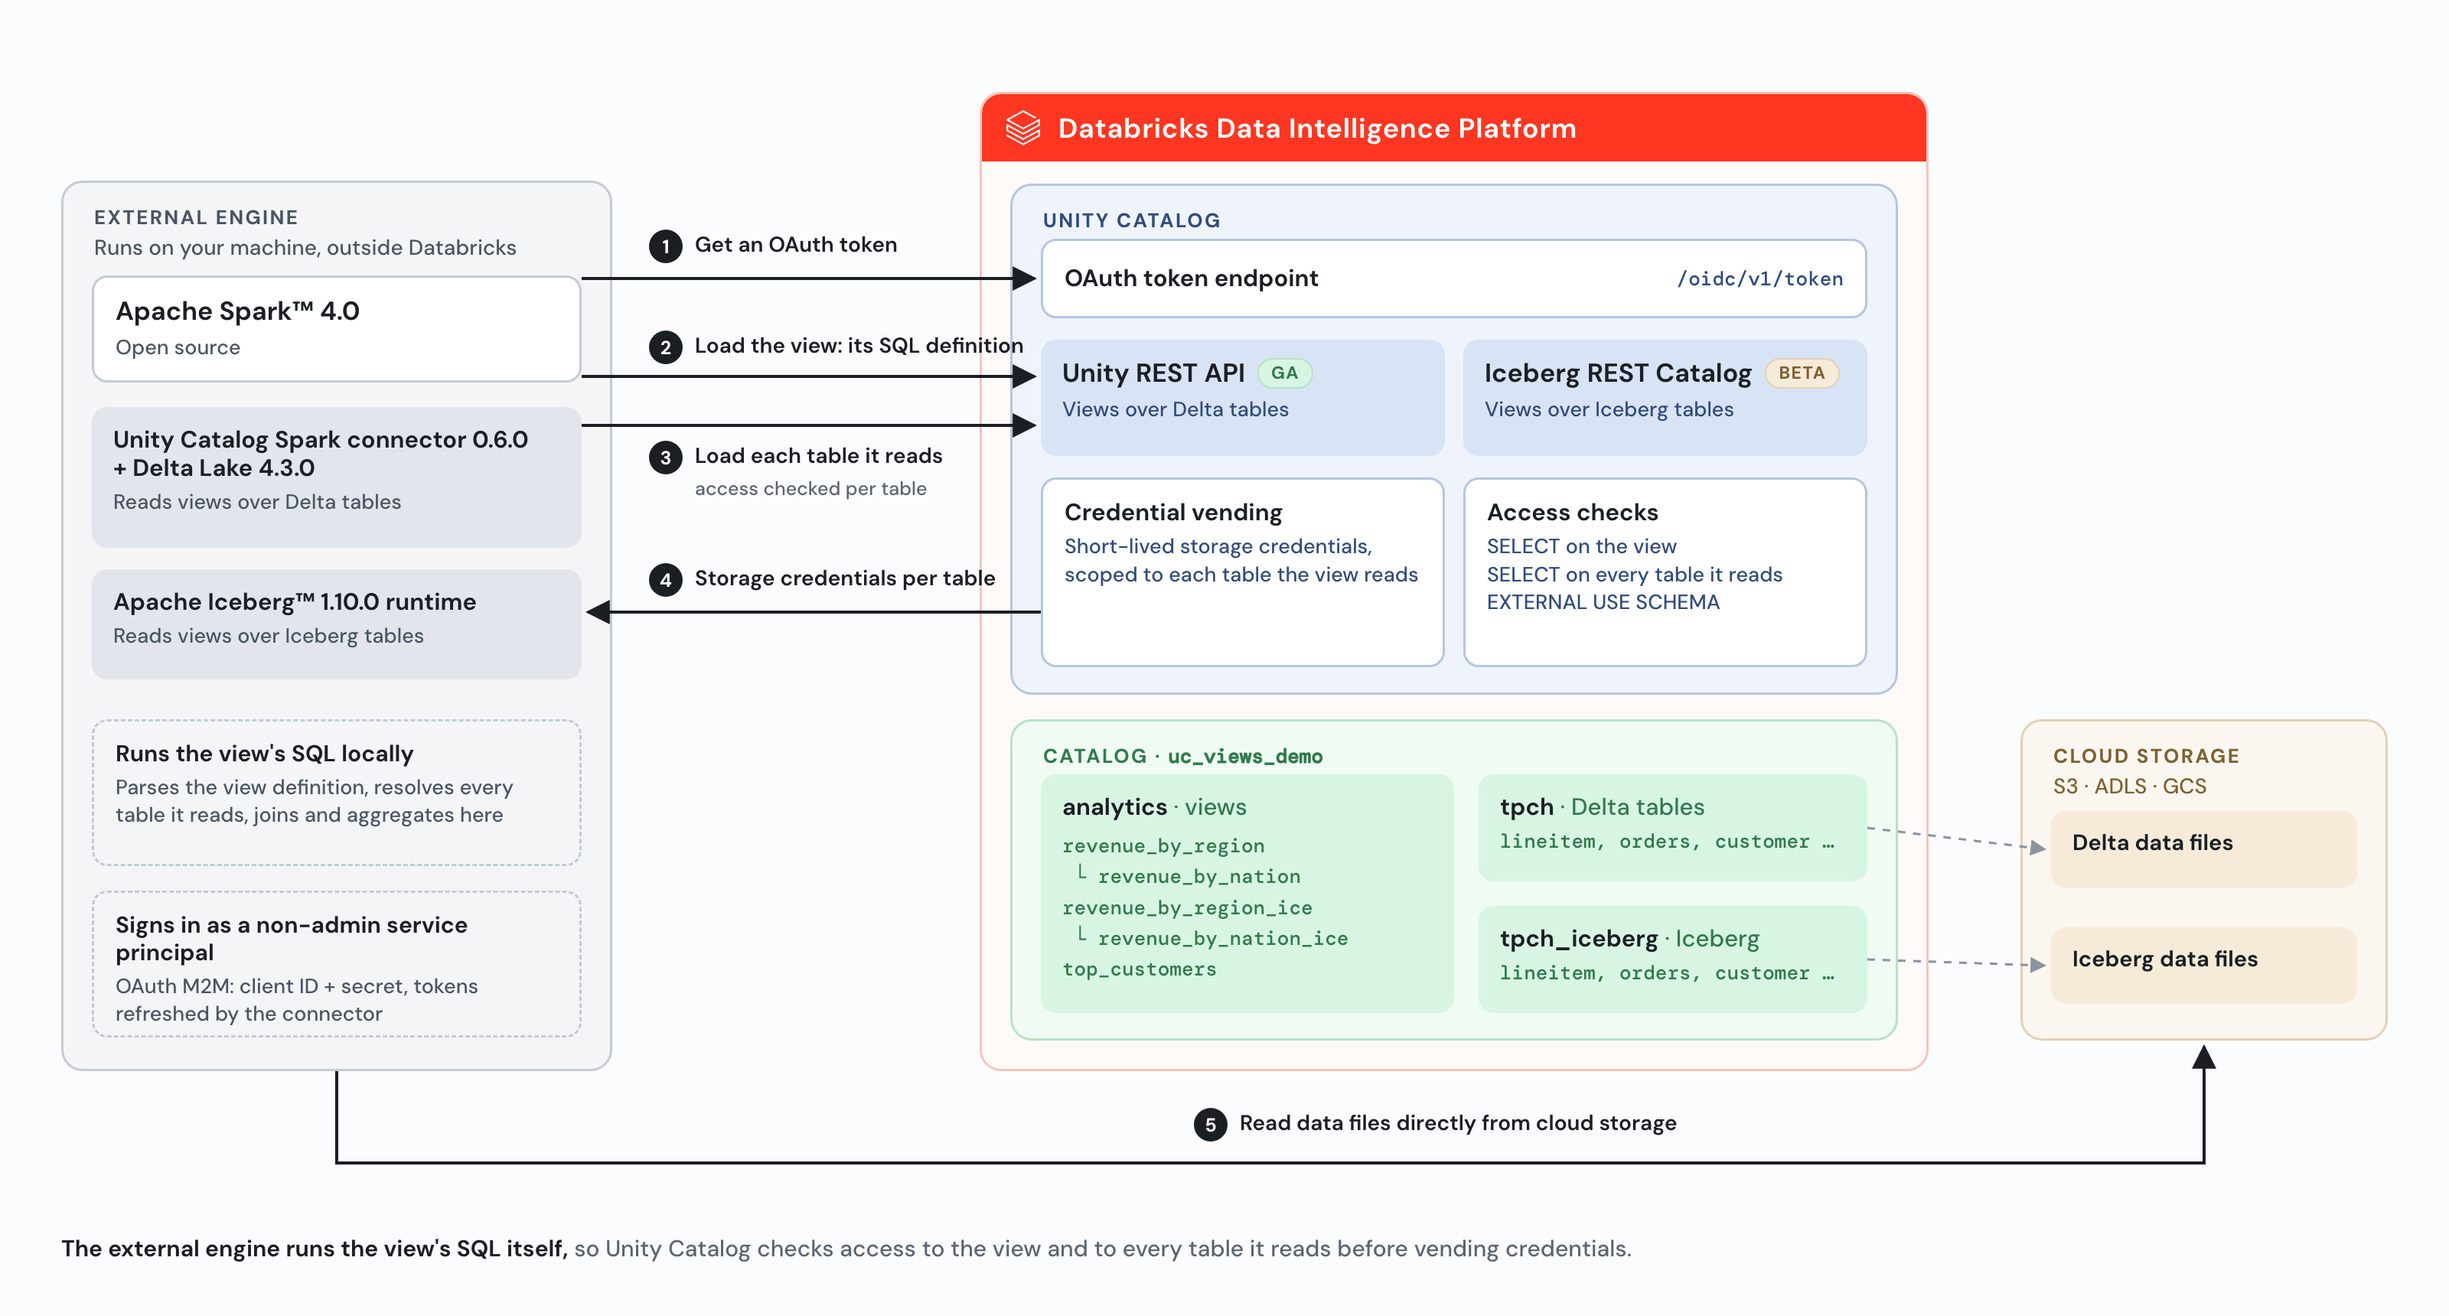
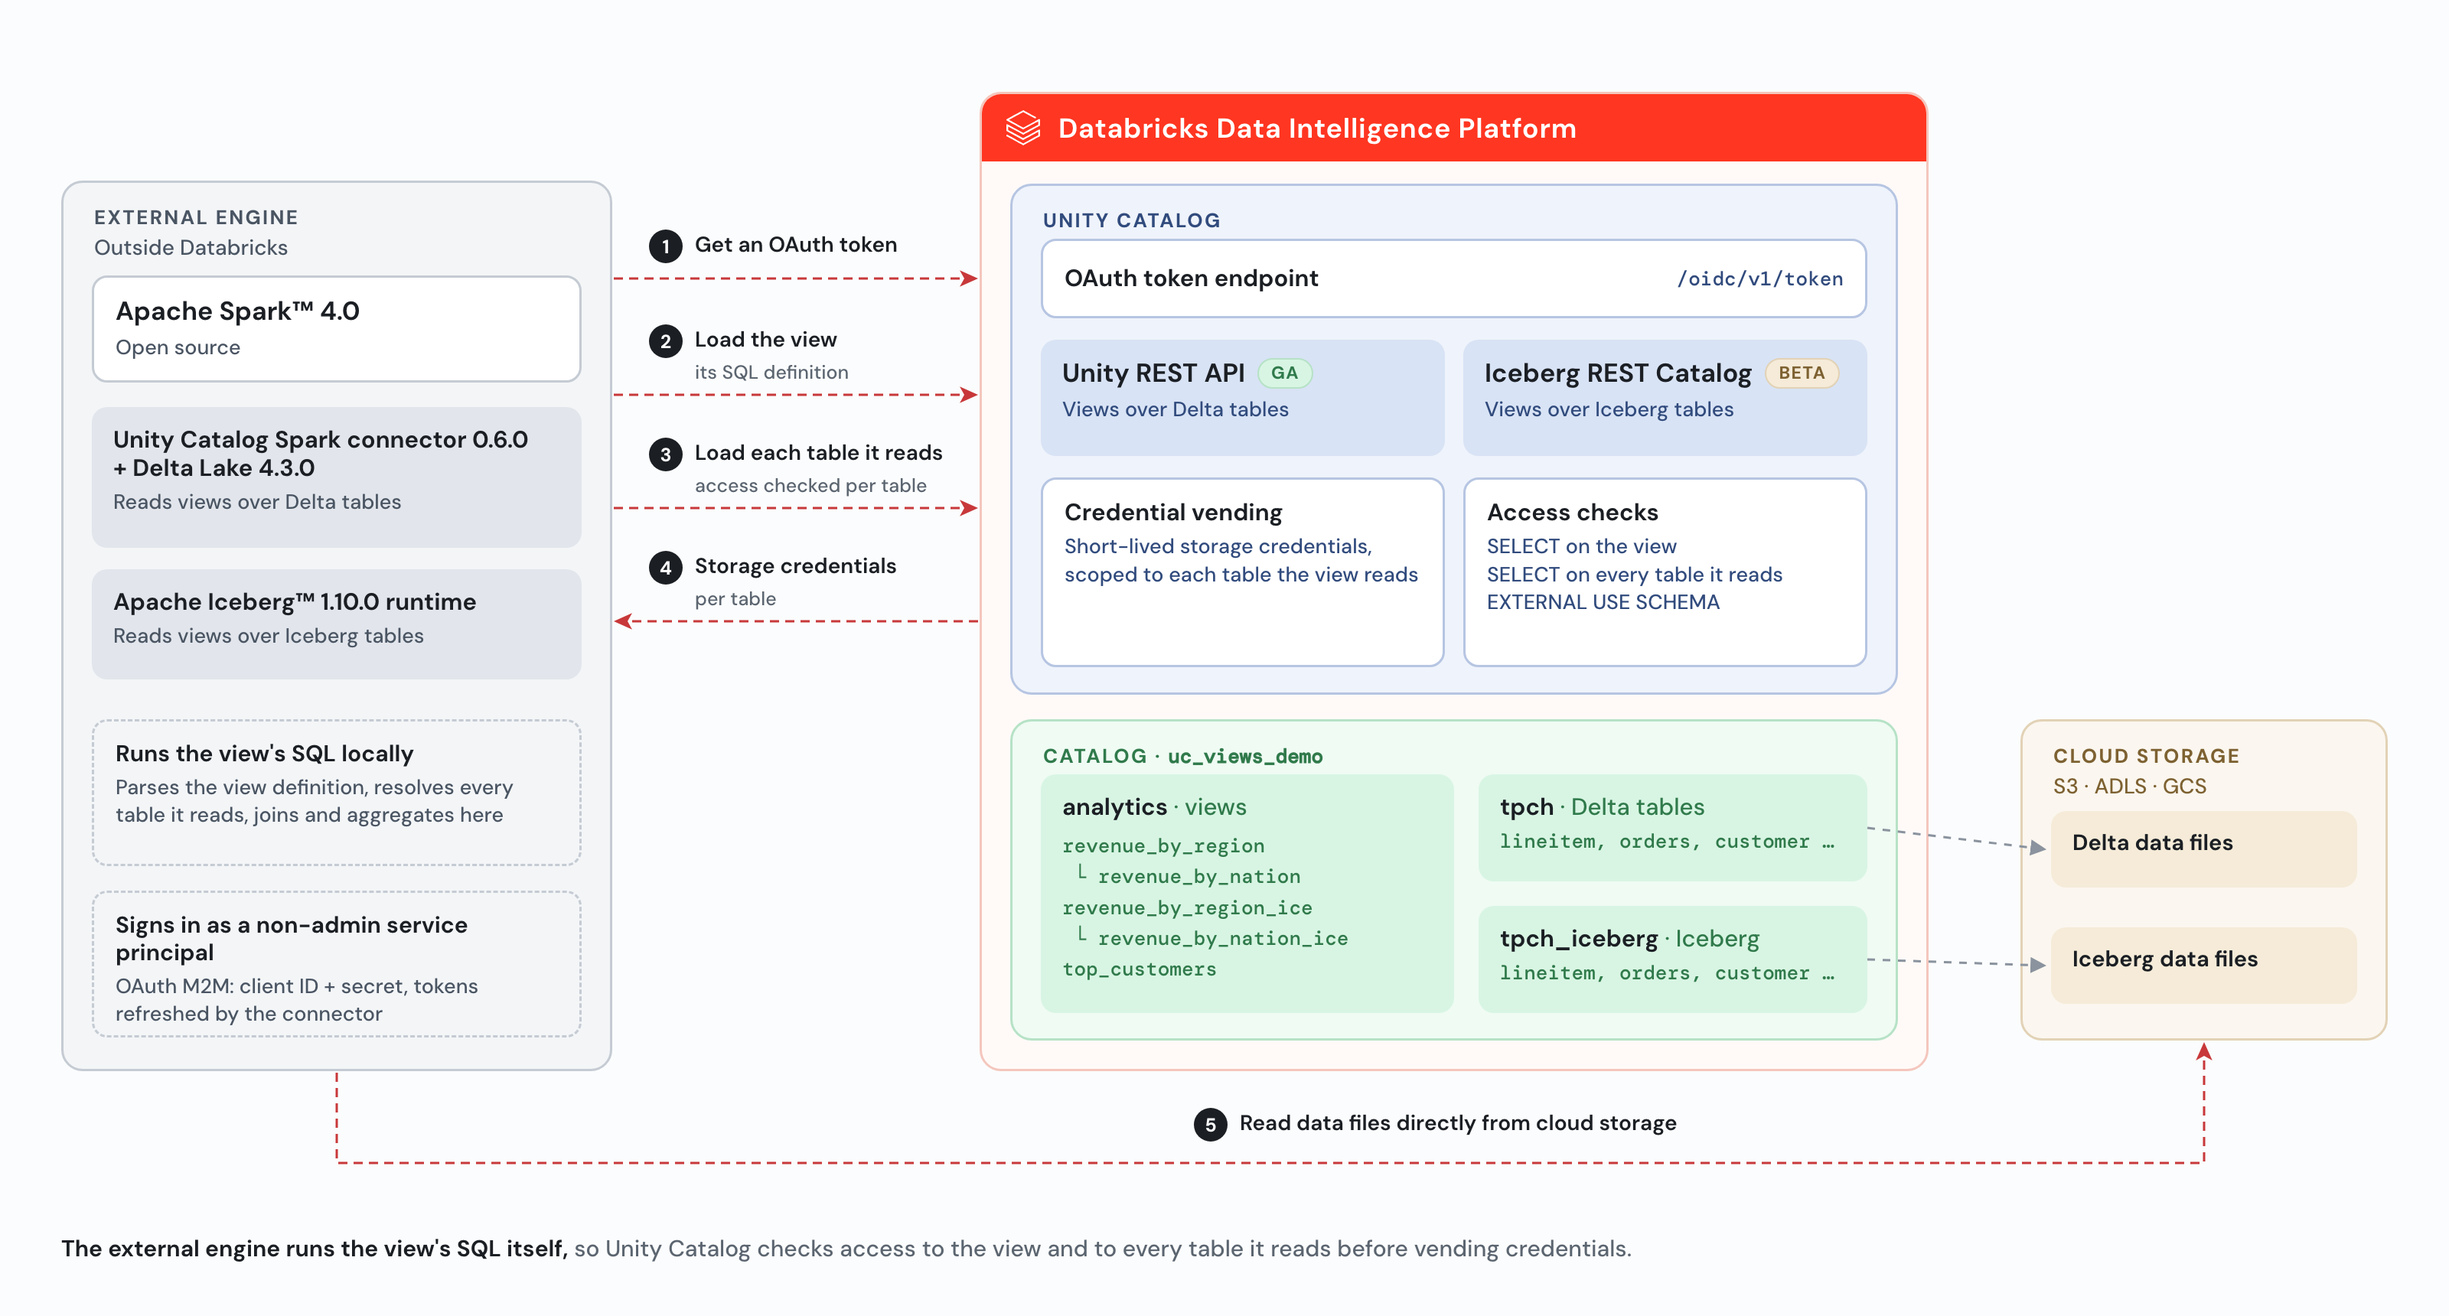
Add generic runbook and refresh architecture diagram
RUNBOOK.md walks through setup, deploy, run and destroy with the expected
output of every step, troubleshooting, and what the demo creates. The
README links to it. The architecture diagram's arrows now run between the
outer boxes as thinner dashed lines.

diff --git a/2026-10-how-to-query-unity-catalog-views-from-external-engines/RUNBOOK.md b/2026-10-how-to-query-unity-catalog-views-from-external-engines/RUNBOOK.md
@@ -1,0 +1,213 @@
+# Runbook: Query Unity Catalog Views from External Engines (demo)
+
+This runbook walks you through the demo end to end, from a local folder against your Databricks workspace: set up your machine, deploy the demo, run it, and remove everything afterwards. Allow about 15–20 minutes.
+
+![Architecture: open source Spark queries Unity Catalog views through the Unity REST API and the Iceberg REST Catalog](images/architecture.png)
+
+## At a glance
+
+| Phase | Command | Time | Result |
+| :---- | :---- | :---- | :---- |
+| 0. One-time setup | Get the code, create a venv, log in | 5 min | A working folder with a clean Python environment and a Databricks CLI profile |
+| 1. Deploy | `python deploy.py -p <profile>` | 3–4 min | Warehouse, catalog, TPC-H tables, views, reader service principal, grants |
+| 2. Run the demo | `python run.py -p <profile>` | 5–8 min | Spark on your machine queries the views; governance; Iceberg views |
+| 3. Destroy | `python destroy.py -p <profile>` | 1–2 min | Everything the demo created is removed |
+
+All three scripts are interactive. They show a numbered agenda and a progress bar, show every SQL statement before running it, and wait for you to press **Enter** between steps.
+
+**How to read the commands.** Two values are yours to choose:
+
+- `DEMO_DIR`: the folder you run the demo from. Use a normal local folder, not one synced by Google Drive, OneDrive or Dropbox.
+- `PROFILE`: your Databricks CLI profile for the workspace.
+
+Set them once per terminal, and every block below then copies and pastes as is:
+
+```sh
+export DEMO_DIR=<path-to-this-folder>
+export PROFILE=<your-cli-profile>
+```
+
+## Before you start
+
+| Requirement | How to check |
+| :---- | :---- |
+| A Databricks workspace with Unity Catalog | Open the workspace URL |
+| External data access enabled on the metastore | Catalog > gear icon > Metastore > Details > External data access |
+| Beta preview **External Access to Views via Iceberg REST Catalog** turned on (needed only for the Iceberg views) | Settings > Previews, search "external" |
+| Workspace admin (needed to create the reader service principal) | You're in the workspace `admins` group |
+| Databricks CLI installed | `databricks --version` |
+| Python 3.10+ and Java 17 | `python3 --version`, `java -version` |
+
+## Phase 0: One-time setup
+
+### 0.1 Get the code
+
+Clone only this folder of the repository:
+
+```sh
+git clone --filter=blob:none --sparse https://github.com/databricks-solutions/databricks-blogposts.git
+cd databricks-blogposts
+git sparse-checkout set 2026-10-how-to-query-unity-catalog-views-from-external-engines
+export DEMO_DIR="$PWD/2026-10-how-to-query-unity-catalog-views-from-external-engines"
+export PROFILE=<your-cli-profile>
+ls -a "$DEMO_DIR"
+```
+
+**You should see:** `README.md`, `RUNBOOK.md`, `_common.py`, `_ui.py`, `deploy.py`, `run.py`, `destroy.py`, `requirements.txt`, `.env.example`, `.gitignore`, and an `images/` folder.
+
+### 0.2 Create a clean virtual environment
+
+```sh
+cd "$DEMO_DIR"
+python3 -m venv .venv
+source .venv/bin/activate
+pip install -r requirements.txt
+```
+
+**You should see:** `pyspark 4.0.1` and `databricks-sdk` 0.153 or later installed. Always run the scripts from this venv. If you run one from another Python (for example a global Python with an old SDK or `databricks-connect`), it stops at once with "This Python environment can't run the demo" and tells you how to fix it.
+
+### 0.3 Log in to the workspace with OAuth
+
+```sh
+databricks auth login --host https://<your-workspace-url> --profile "$PROFILE"
+databricks current-user me -p "$PROFILE"
+```
+
+A browser window opens. Sign in, then come back to the terminal. **You should see:** `Profile <your-cli-profile> was successfully saved`, then your user details.
+
+### 0.4 Optional settings (.env)
+
+The scripts read optional settings from `$DEMO_DIR/.env`. Create it from the template:
+
+```sh
+cd "$DEMO_DIR"
+[ -f .env ] || cp .env.example .env
+```
+
+All settings are optional:
+
+| Setting | Default | Use |
+| :---- | :---- | :---- |
+| `UC_CATALOG` | `uc_views_demo` | Catalog the demo creates |
+| `TPCH_FROM` / `TPCH_TO` | Q1 1998 | Date range of orders and line items copied from `samples.tpch` |
+| `UC_MANAGED_LOCATION` | — | Only if the metastore has no root storage |
+| `DATABRICKS_WAREHOUSE_ID` | — | Use an existing SQL warehouse instead of creating one |
+| `SPARK_REPOSITORIES` | — | A Maven mirror, if your network blocks Maven Central |
+
+`.env` is gitignored; keep it local.
+
+### Every new terminal
+
+```sh
+export DEMO_DIR=<path-to-this-folder>
+export PROFILE=<your-cli-profile>
+cd "$DEMO_DIR" && source .venv/bin/activate
+```
+
+## Phase 1: Deploy
+
+```sh
+cd "$DEMO_DIR" && source .venv/bin/activate
+python deploy.py -p "$PROFILE"
+```
+
+Press **Enter** to move through the 9 steps:
+
+| Step | What happens | What you should see |
+| :---- | :---- | :---- |
+| 1. Connect and check prerequisites | Reads your user, the metastore and your admin status | A Workspace panel showing Workspace admin ✓ and External data access enabled ✓ |
+| 2. Create the SQL warehouse | Finds or creates the 2X-Small serverless warehouse `uc-views-demo` (auto-stops after 10 min) | "Warehouse … is running, and the built-in TPC-H sample data is available." |
+| 3. Create the catalog and schemas | `uc_views_demo` with `tpch`, `tpch_iceberg` and `analytics` | The SQL statements, plus a Catalog Explorer link |
+| 4. Copy TPC-H into Delta tables | CTAS from `samples.tpch`; orders and line items limited to Q1 1998 | Row counts: region 5, nation 25, customer 750000, orders 281617, lineitem 1124614 |
+| 5. Copy TPC-H into Iceberg tables | Managed Iceberg copies of the same 5 tables | "5 managed Iceberg tables created …" |
+| 6. Create the views | `revenue_by_nation`, `revenue_by_region` (a view on a view), `top_customers`, `revenue_by_nation_ice`, `revenue_by_region_ice` (an Iceberg view on a view) | The view SQL, plus a link to the views |
+| 7. Create the external reader | Finds or creates the service principal `uc-views-demo-reader` (non-admin, workspace-access entitlement) and creates an OAuth secret | An External reader panel with the application (client) ID. The secret is saved to `$DEMO_DIR/.demo_state.<profile>.env` (only you can read it; never share or commit it) |
+| 8. Grant the reader access | `USE CATALOG`; `USE SCHEMA`, `SELECT` and `EXTERNAL USE SCHEMA` on the 3 schemas; `CAN USE` on the warehouse | The GRANT statements |
+| 9. Verify the deployment | Lists everything and checks the Iceberg REST Catalog for view support | 15 objects, and **Views via Iceberg REST Catalog: available ✓ (Beta enabled)** |
+
+Rerunning `deploy.py` is safe: tables and views are replaced, and the service principal is reused.
+
+## Phase 2: Run the demo
+
+```sh
+cd "$DEMO_DIR" && source .venv/bin/activate
+python run.py -p "$PROFILE"
+```
+
+Open source Apache Spark runs on your machine and authenticates as the service principal with OAuth M2M. The first Spark start can take about a minute while it downloads the connector jars.
+
+| Step | What happens | What you should see |
+| :---- | :---- | :---- |
+| 1. Check the deployment | Confirms the reader, warehouse and views exist | A Demo panel. If something's missing, it tells you to run deploy.py |
+| 2. Start Spark (Unity REST API) | Unity Catalog Spark connector 0.6.0 + Delta 4.3.0, `auth.type=oauth` | A runtime panel with the live Spark config (the secret shown as `<hidden>`) |
+| 3. Query a view built on another view | `SELECT * FROM analytics.revenue_by_region` | ASIA 56843 orders 8,250,496,500.50 · EUROPE 8,201,206,555.67 · MIDDLE EAST 8,198,150,600.66 · AFRICA 8,117,132,144.18 · AMERICA 8,092,242,554.94 |
+| 4. Filter a view | `revenue_by_nation WHERE region = 'ASIA'` | INDONESIA 1,682,265,357.85 at the top, then INDIA, CHINA, JAPAN, VIETNAM |
+| 5. Join a view with a table | `top_customers` joined with `tpch.customer` | Customer#000419993, SAUDI ARABIA, 1,320,114.72 at the top |
+| 6. Governance: revoke SELECT on the tables | `REVOKE SELECT ON SCHEMA uc_views_demo.tpch FROM <reader>`, then the same query from a fresh Spark session | 🔒 `Failed to load table uc_views_demo.tpch.lineitem (HTTP 403) … PermissionDeniedException` |
+| 7. Governance: the same reader in Databricks SQL | The same query on the SQL warehouse, as the reader | The same 5 rows. "It works here. Databricks compute evaluates a view with its owner's privileges…" |
+| 8. Governance: grant SELECT back | `GRANT SELECT ON SCHEMA uc_views_demo.tpch TO <reader>`, then query again from Spark | The same 5 rows. "Access restored…" |
+| 9. Start Spark (Iceberg REST Catalog) | The plain Apache Iceberg 1.10.0 runtime, `rest.auth.type=oauth2` | A runtime panel showing the iceberg-rest URI and vended-credentials |
+| 10. Query a view over Iceberg tables | `SELECT * FROM analytics.revenue_by_nation_ice … LIMIT 10` | 10 rows: ASIA INDONESIA 1,682,265,357.85 at the top, then MIDDLE EAST IRAQ, EUROPE GERMANY… |
+| 11. Query an Iceberg view built on another view | `SELECT * FROM analytics.revenue_by_region_ice` (it reads `revenue_by_nation_ice`) | The same 5 rows as step 3: ASIA 56843 orders 8,250,496,500.50 at the top. Both views are resolved through the Iceberg REST Catalog |
+
+The run ends with a green-ticked recap. You can run `run.py` again as many times as you like. The numbers above are for the default Q1 1998 data.
+
+## Phase 3: Destroy
+
+```sh
+cd "$DEMO_DIR" && source .venv/bin/activate
+python destroy.py -p "$PROFILE"
+```
+
+| Step | What happens | What you should see |
+| :---- | :---- | :---- |
+| 1. Connect | Reads the workspace and you | A Workspace panel |
+| 2. Review | Lists the catalog's 15 tables and views, the service principal, the local secret file and the warehouse | A "Will be removed" panel, then the prompt **Type 'uc_views_demo' to delete all of the above** |
+| 3. Drop the catalog | `DROP CATALOG uc_views_demo CASCADE` | "Catalog uc_views_demo dropped…" |
+| 4. Service principal and local secret | Revokes all its OAuth secrets, tries to delete it, and deletes `$DEMO_DIR/.demo_state.<profile>.env` | "Revoked 1 OAuth secret(s)…". In some workspaces, also a note that the service principal couldn't be deleted (see Troubleshooting) |
+| 5. Delete the warehouse | Deletes `uc-views-demo` | "Warehouse uc-views-demo deleted." |
+
+To start over, run Phase 1 again.
+
+## Hands-free and debugging options
+
+| Option | Use |
+| :---- | :---- |
+| `DEMO_AUTO=1 python deploy.py -p "$PROFILE"` | No Enter prompts. Works for all three scripts |
+| `DEMO_AUTO=1 python destroy.py -p "$PROFILE" --yes` | Hands-free teardown (`--yes` is required with DEMO_AUTO) |
+| `DEMO_VERBOSE=1 python run.py -p "$PROFILE"` | Shows Spark's startup logs (Maven downloads, warnings) |
+| `DEMO_PAGE=0` | Turns off the scroll animation between steps |
+
+## Troubleshooting
+
+| Symptom | Cause | Fix |
+| :---- | :---- | :---- |
+| "This Python environment can't run the demo" | Wrong Python: old SDK, missing PySpark, or `databricks-connect` installed | `cd "$DEMO_DIR" && source .venv/bin/activate` (see 0.2) |
+| "A new access token could not be retrieved because the refresh token is invalid" | The OAuth login for the profile expired | Run the login in 0.3 again |
+| `$DEMO_DIR` is empty or commands fail with "No such file" | A new terminal without the variables | Run the "Every new terminal" block |
+| Spark start fails with `unresolved dependency` / `Connection refused` | Maven Central is blocked on your network | Set `SPARK_REPOSITORIES` in `$DEMO_DIR/.env` to a Maven mirror (see 0.4); rerun with `DEMO_VERBOSE=1` to see the downloads |
+| `Unable to locate a Java Runtime` or Java errors | Java 17 isn't the active JDK | Point `JAVA_HOME` at a Java 17 install (on macOS: `export JAVA_HOME=$(/usr/libexec/java_home -v 17)`) |
+| run.py: "The demo isn't deployed" | deploy.py hasn't run in this folder, or destroy.py has. The reader's secret lives in `$DEMO_DIR`, so a deploy from another folder doesn't count | `python deploy.py -p "$PROFILE"` from `$DEMO_DIR` |
+| Step 10: "not an Iceberg compatible table" | The Iceberg views Beta is off | Settings > Previews: turn on "External Access to Views via Iceberg REST Catalog", wait a few minutes, rerun |
+| Step 6: "Unexpected: the query succeeded" | The reader has SELECT on tpch some other way (a group or catalog grant) or admin rights | Use a non-admin service principal with only the grants deploy.py makes |
+| destroy.py: "The workspace didn't delete the service principal" | The workspace uses identity federation; the service principal stays visible through account-level groups | Expected. Its secrets are revoked, and its grants and warehouse access are gone. An account admin can delete `uc-views-demo-reader` in the account console under User management > Service principals |
+| deploy.py stops at step 1: "Creating the reader service principal needs workspace admin" | You aren't a workspace admin in this workspace | Ask a workspace admin to run deploy.py |
+| deploy.py: CREATE CATALOG fails about storage | The metastore has no root storage | Set `UC_MANAGED_LOCATION` in `.env` to a path covered by an external location |
+| The first warehouse query is slow | The serverless warehouse is starting | Wait; the spinner keeps going until it's ready |
+
+## What the demo creates
+
+| Object | Name | Removed by destroy.py |
+| :---- | :---- | :---- |
+| SQL warehouse | `uc-views-demo` (2X-Small serverless) | Yes |
+| Catalog | `uc_views_demo` (schemas `tpch`, `tpch_iceberg`, `analytics`) | Yes (CASCADE) |
+| Tables | `region`, `nation`, `customer`, `orders`, `lineitem`, as Delta and as Iceberg | Yes, with the catalog |
+| Views | `revenue_by_nation`, `revenue_by_region`, `top_customers`, `revenue_by_nation_ice`, `revenue_by_region_ice` | Yes, with the catalog |
+| Service principal | `uc-views-demo-reader` | Secrets revoked; deleted where the workspace allows |
+| Local secret file | `$DEMO_DIR/.demo_state.<profile>.env` | Yes |
+| Local files | `$DEMO_DIR/.venv`, `$DEMO_DIR/.env` | No; delete them yourself when you're done |
+
+## Reference
+
+- Code details: [README.md](README.md)
+- Docs: [External access to views](https://docs.databricks.com/aws/en/external-access/views)

diff --git a/2026-10-how-to-query-unity-catalog-views-from-external-engines/README.md b/2026-10-how-to-query-unity-catalog-views-from-external-engines/README.md
@@ -10,6 +10,8 @@ Companion code for the blog "How to Query Unity Catalog Views from External Engi
 
 `_common.py` holds the shared helpers: profile, warehouse, service principal state and the Spark session builders. `_ui.py` is the terminal UX toolkit.
 
+For a step-by-step walkthrough with the expected output of every step, troubleshooting, and the full list of what the demo creates, see [RUNBOOK.md](RUNBOOK.md).
+
 ## What gets deployed
 
 | Object | Details |
